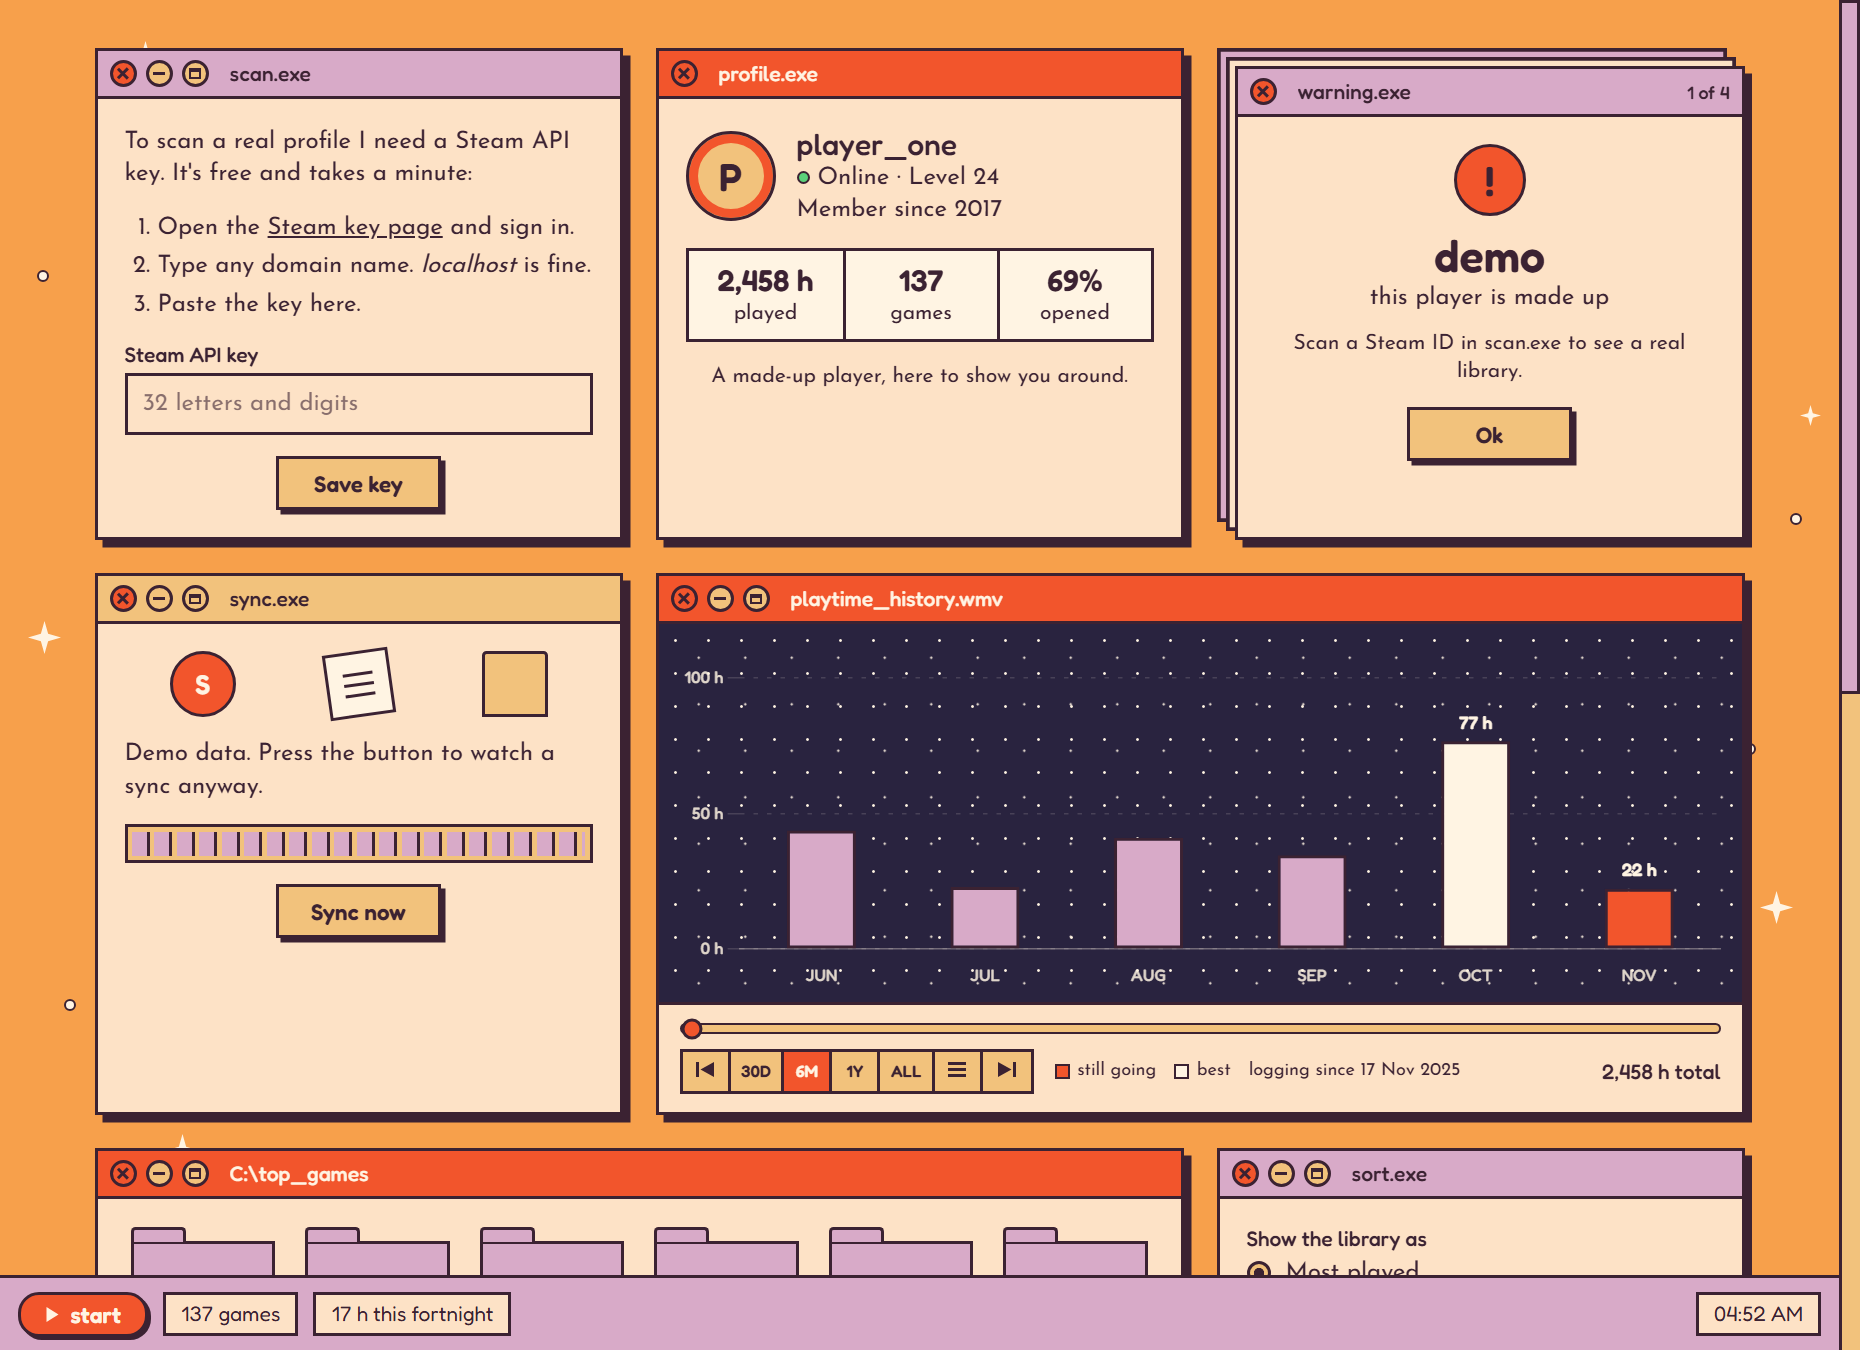
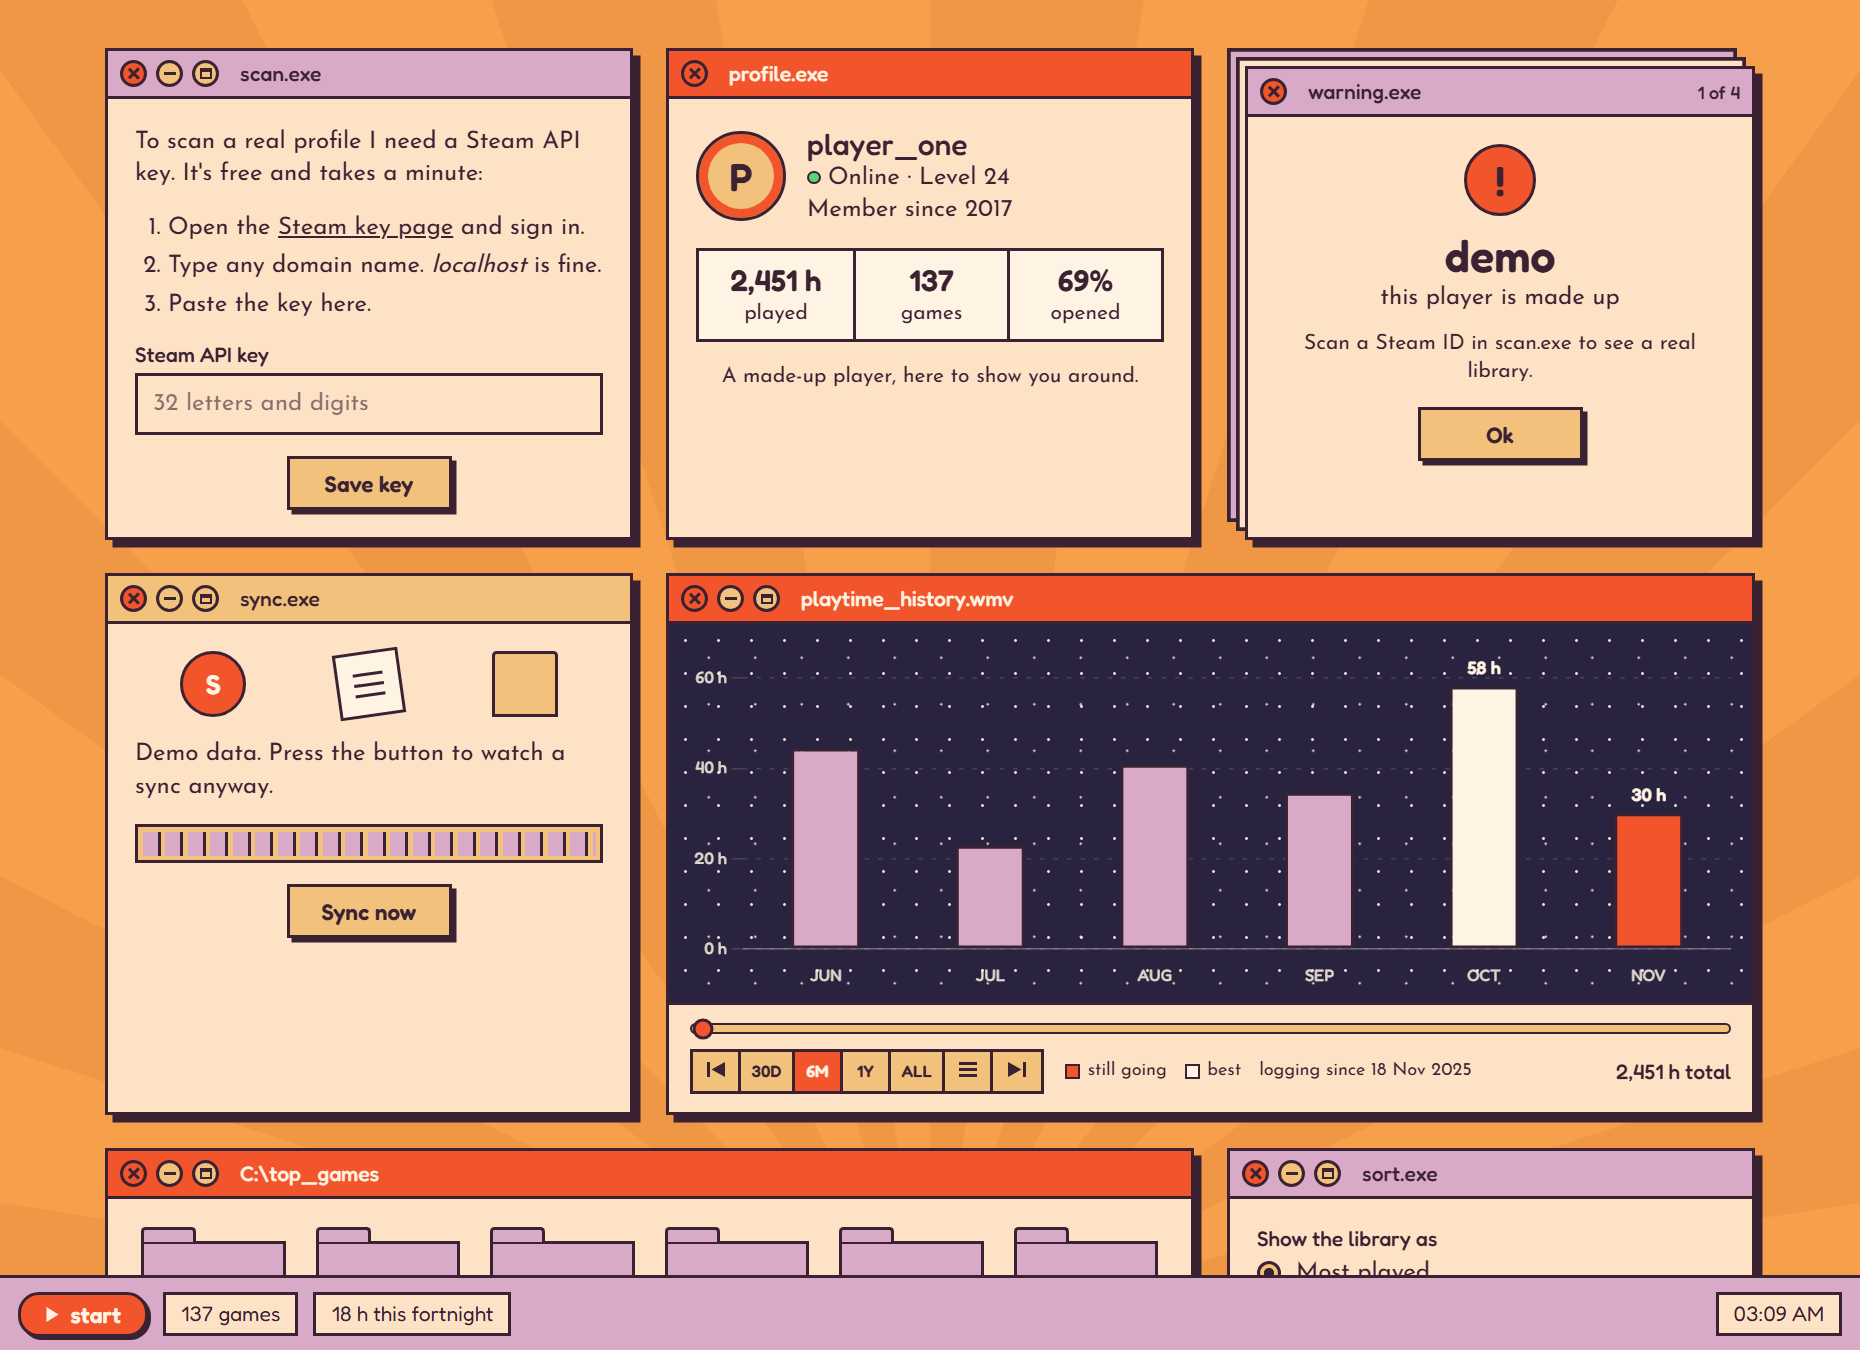
Swap the wallpaper stars for a sunburst
The hand-placed stars and dots are gone. The wallpaper is now a single
repeating-conic-gradient: thin rays in a slightly darker orange that rise
from behind the taskbar. Its colour, ray count and centre are --wallpaper-*
variables in theme.css. No window or feature changed. README screenshots
retaken.

diff --git a/static/css/style.css b/static/css/style.css
@@ -113,46 +113,24 @@ a {
 
 /* --- Wallpaper ----------------------------------------------------------- */
 
+/* A sunburst behind everything. It's fixed, so the windows scroll over it
+   while the rays stay put, like a real desktop.
+
+   A conic gradient changes colour as it goes round a point, like slices of
+   a pie. With hard stops (each colour starts exactly where the last one
+   ends) nothing fades: the slices are flat, alternating --wallpaper-ink and
+   --bg. Each ray and each gap is half of one 360deg / rays step.            */
 .wallpaper {
+  --ray: calc(180deg / var(--wallpaper-rays));
   position: fixed;
   inset: 0;
-  overflow: hidden;
   pointer-events: none;
+  background: repeating-conic-gradient(
+    at var(--wallpaper-center),
+    var(--wallpaper-ink) 0 var(--ray),
+    var(--bg) 0 calc(var(--ray) * 2)
+  );
 }
-
-.sparkle {
-  position: absolute;
-  width: 22px;
-  height: 22px;
-  background: var(--cream);
-  /* a four-pointed star, drawn as a shape so it doesn't depend on a font */
-  clip-path: polygon(50% 0, 61% 39%, 100% 50%, 61% 61%, 50% 100%, 39% 61%, 0 50%, 39% 39%);
-}
-
-.dot {
-  position: absolute;
-  width: 8px;
-  height: 8px;
-  border-radius: 50%;
-  background: var(--cream);
-  border: 1.5px solid var(--ink);
-}
-
-/* Where each one sits. Move them, or add more in base.html. */
-.sparkle:nth-of-type(1) { top: 3%; left: 7%; }
-.sparkle:nth-of-type(2) { top: 10%; right: 5%; }
-.sparkle:nth-of-type(3) { top: 46%; left: 1.5%; }
-.sparkle:nth-of-type(4) { top: 66%; right: 2.5%; }
-.sparkle:nth-of-type(5) { top: 84%; left: 9%; }
-.sparkle:nth-of-type(6) { top: 90%; right: 16%; }
-.sparkle:nth-of-type(7) { top: 30%; right: 1%; width: 14px; height: 14px; }
-
-.dot:nth-of-type(1) { top: 6%; left: 30%; }
-.dot:nth-of-type(2) { top: 38%; right: 2%; }
-.dot:nth-of-type(3) { top: 74%; left: 3.5%; }
-.dot:nth-of-type(4) { top: 94%; right: 40%; }
-.dot:nth-of-type(5) { top: 20%; left: 2%; }
-.dot:nth-of-type(6) { top: 55%; right: 4.5%; }
 
 /* --- Desktop: the grid the windows sit in -------------------------------- */
 
@@ -1413,20 +1391,6 @@ li:last-child > .row {
 
 .is-syncing .icon-box--doc {
   animation: hop 0.6s steps(2, end) infinite;
-}
-
-@keyframes twinkle {
-  50% {
-    scale: 0.6;
-  }
-}
-
-.sparkle:nth-of-type(odd) {
-  animation: twinkle 3.2s steps(2, end) infinite;
-}
-
-.sparkle:nth-of-type(3n) {
-  animation-delay: 1.3s;
 }
 
 @media (prefers-reduced-motion: reduce) {

diff --git a/static/css/theme.css b/static/css/theme.css
@@ -57,9 +57,16 @@
   --red: #f2552c;        /* title bars and anything that should pop */
   --sand: #f2c27c;       /* title bars and buttons */
   --night: #29233f;      /* the media player screen */
-  --cream: #fff4e3;      /* stars, light text, highlights */
+  --cream: #fff4e3;      /* light text, highlights, the media player's stars */
   --green: #5bd17a;      /* the "online" dot */
   --red-ink: #bf3510;    /* --red, deepened so small text stays readable on paper */
+
+  /* --- Wallpaper ------------------------------------------------------------
+     A sunburst of thin rays over --bg. Keep --wallpaper-ink close to --bg so
+     the pattern stays in the background and the windows stay the focus.     */
+  --wallpaper-ink: #ef9744;      /* the darker rays */
+  --wallpaper-rays: 20;          /* how many darker rays go all the way round */
+  --wallpaper-center: 50% 100%;  /* where they start (across, down): behind the taskbar */
 
   /* --- Type ---------------------------------------------------------------- */
   --font-ui: "Fredoka", "Segoe UI", sans-serif;          /* titles, buttons, numbers */

diff --git a/templates/base.html b/templates/base.html
@@ -12,11 +12,8 @@
 </head>
 <body>
 
-  {# The wallpaper: sparkles and dots that sit behind every window. #}
-  <div class="wallpaper" aria-hidden="true">
-    {% for _ in range(7) %}<span class="sparkle"></span>{% endfor %}
-    {% for _ in range(6) %}<i class="dot"></i>{% endfor %}
-  </div>
+  {# The wallpaper behind every window. Its pattern is drawn in style.css. #}
+  <div class="wallpaper" aria-hidden="true"></div>
 
   {% block desktop %}{% endblock %}
 
